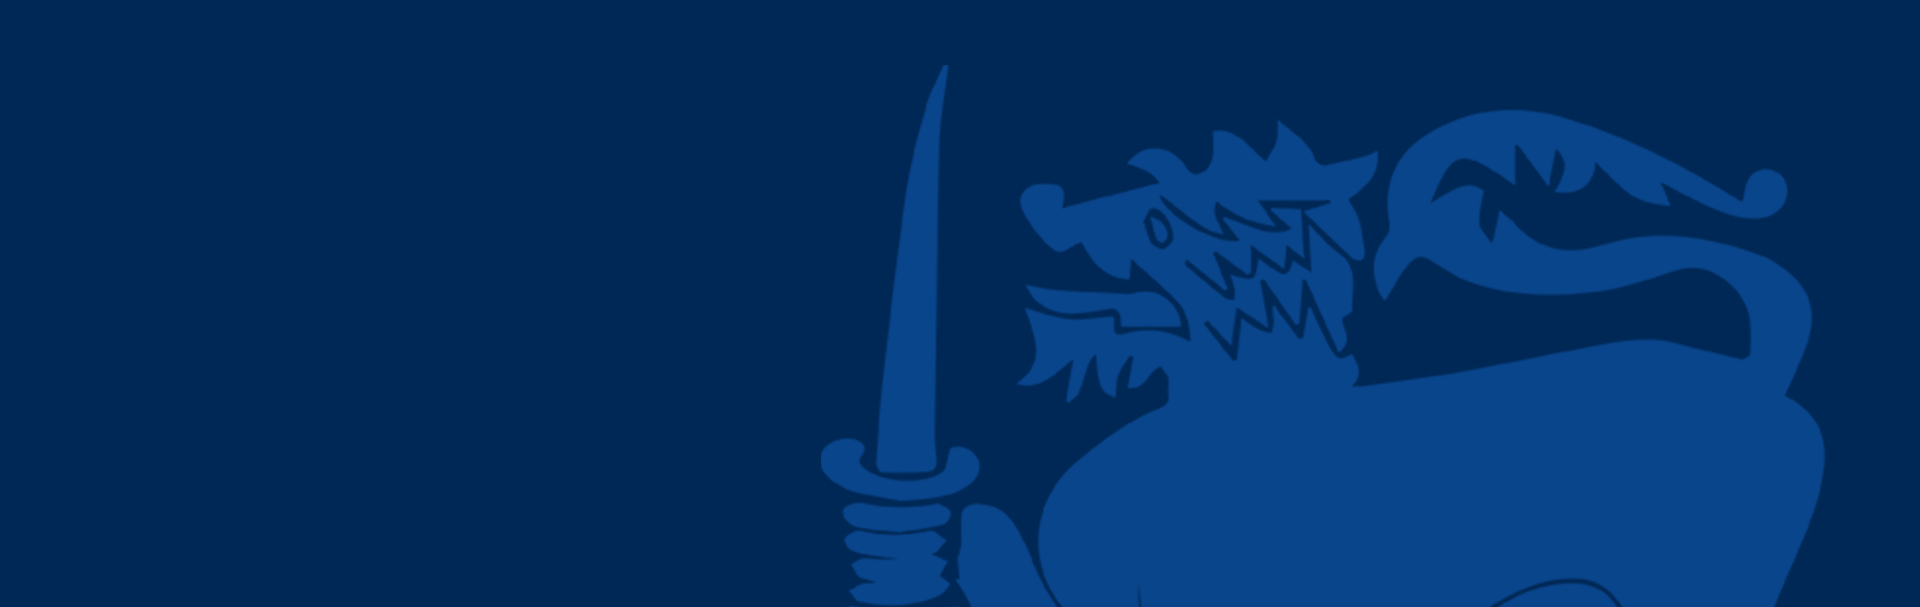
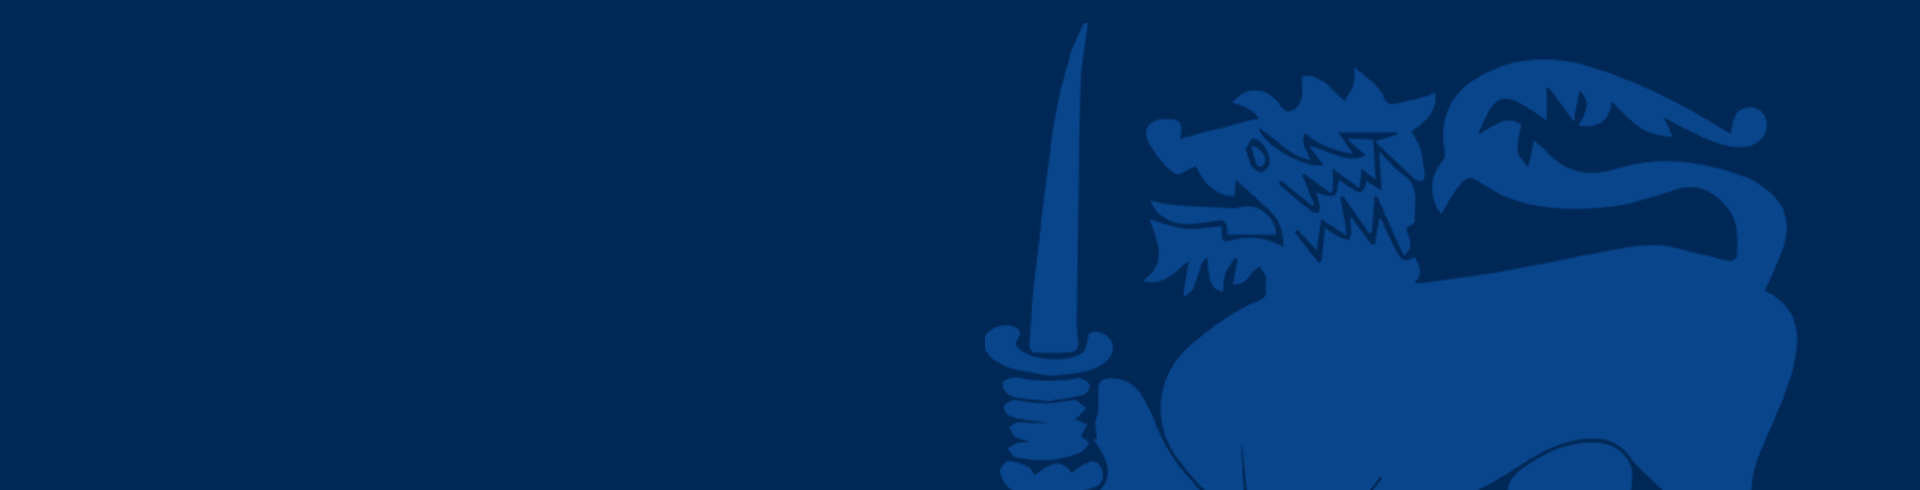
ticket and about screens

diff --git a/CSS/tickets.css b/CSS/tickets.css
@@ -1,0 +1,105 @@
+body {
+    margin: 0px !important;
+    padding: 0px !important;
+    background-image: url('/assets/tickets-backgroound-image.png');
+    background-size: contain;
+    background-repeat: no-repeat;
+    background-position: bottom;
+    padding-bottom: 100px;
+}
+
+img {
+    width: 100%;
+    /* height: 50%; */
+}
+
+.container {
+    position: relative;
+    text-align: center;
+}
+
+.top-left {
+    position: absolute;
+    top: 100px;
+    left: 120px;
+    font-size: 60px;
+    font-family: 'Poppins';
+    color: white;
+    font-weight: 700;
+}
+
+.match-card {
+    box-shadow: 0 8px 12px 0 rgba(0, 0, 0, 0.1);
+    background-color: #D6D6D6;
+    margin-top: 100px;
+    margin-left: 120px;
+    margin-right: 120px;
+    border-radius: 20px;
+    padding-bottom: 40px;
+    margin-bottom: 500px;
+}
+
+.card-topic {
+    font-size: 40px;
+    padding-top: 40px;
+    margin-left: 70px;
+    margin-bottom: 10px;
+    /* font-size: 60px;  */
+    font-family: 'Poppins';
+    font-weight: 600;
+}
+
+.card-text {
+    font-size: 30px;
+    margin-bottom: 10px;
+    margin-left: 70px;
+    /* font-size: 60px;  */
+    font-family: 'Poppins';
+    font-weight: 500;
+}
+
+.select-price {
+    padding: 10px;
+    padding-left: 20px;
+    padding-right: 20px;
+    margin-left: 70px;
+    margin-top: 10px;
+    font-family: 'Poppins';
+    font-weight: 400;
+    font-size: 25px;
+    border-width: 0px;
+}
+
+.select-qty {
+    padding: 10px;
+    padding-left: 30px;
+    padding-right: 30px;
+    margin-left: 70px;
+    margin-top: 20px;
+    font-family: 'Poppins';
+    font-weight: 400;
+    font-size: 25px;
+    border-width: 0px;
+}
+
+.buy-tickets {
+    font-family: 'Poppins';
+    font-weight: 500;
+    font-size: 25px;
+    margin-top: 20px;
+    margin-top: 30px;
+    margin-left: 70px;
+    padding: 10px;
+    padding-left: 40px;
+    padding-right: 40px;
+    border-radius: 30px;
+    border-width: 0px;
+    background-color: #4DA4E8;
+    color: white;
+    outline-width: 0px;
+    box-shadow: 0 8px 12px 0 rgba(0,0,0,0.2);
+}
+
+.buy-tickets:hover{
+    background-color: #2898EF;
+}

diff --git a/html/tickets.html b/html/tickets.html
@@ -1,0 +1,38 @@
+<!DOCTYPE html>
+<html>
+
+<head>
+    <link rel="stylesheet" href="/css/tickets.css">
+    <link
+        href='https://fonts.googleapis.com/css2?family=Poppins:ital,wght@0,100;0,200;0,400;0,500;0,600;0,700;0,800;0,900;1,100;1,200;1,400;1,500;1,600;1,700;1,800;1,900&display=swap'
+        rel='stylesheet'>
+    <title>Tickets</title>
+</head>
+
+<body>
+    <div class="container">
+        <img class="main-cover" src="/assets/cover-image.jpg" alt="cover image">
+        <div class="top-left">Tickets | LPL</div>
+    </div>
+    <div class="match-card">
+        <div class="card-topic">Colombo Kings vs Galle Gladiators</div>
+        <div class="card-text">Pallakele Cricket Stadium, Kandy</div>
+        <div class="card-text">15:30 IST (05:30 GMT) 14:00 LOCAL</div>
+        <!-- <div class="card-location">Pallakele Cricket Stadium, Kandy</div> -->
+        <select name="select-price" class="select-price">
+            <option value="value-1">Rs. 2,500</option>
+            <option value="value-2">Rs. 4,500</option>
+            <option value="value-3">Rs. 6,500</option>
+            <option value="value-4">Rs. 8,000</option>
+        </select><br/>
+        <select name="select-price" class="select-qty">
+            <option value="value-1">1</option>
+            <option value="value-2">2</option>
+            <option value="value-3">3</option>
+            <option value="value-4">4</option>
+            <option value="value-4">5</option>
+        </select><br/>
+        <button type="button" class="buy-tickets">Buy Tickets</button>
+    </div>
+
+</body>

diff --git a/html/about.html b/html/about.html
@@ -1,0 +1,23 @@
+<!DOCTYPE html>
+<html>
+
+<head>
+    <link rel="stylesheet" href="/css/about.css">
+    <link
+        href='https://fonts.googleapis.com/css2?family=Poppins:ital,wght@0,100;0,200;0,400;0,500;0,600;0,700;0,800;0,900;1,100;1,200;1,400;1,500;1,600;1,700;1,800;1,900&display=swap'
+        rel='stylesheet'>
+    <title>About Us | LPL</title>
+</head>
+
+<body>
+    <div class="container">
+        <img class="main-cover" src="/assets/cover-image.jpg" alt="cover image">
+        <div class="top-left">About</div>
+    </div>
+    <div class="match-card">
+        <div class="LPL-logo-div">
+            <img class="LPL-logo" src="/assets/LPL-Logo-Transparent.png" alt="cover image"></div>
+        <div class="card-topic">Lanka Premier League (LPL)</div>
+        <p class="card-text">The Lanka Premier League (LPL) (Sinhala: ලංකා ප්රිමියර් ලීග්) is a professional Twenty20 cricket league in Sri Lanka to be contested every year by teams representing Sri Lankan cities from 2020. The league was founded by Sri Lanka Cricket (SLC) in 2018.<br/><br/>Originally, the first season was supposed to be held from 18 August to 10 September 2018, but postponed multiple times due to administrative issues within SLC. In June 2020, amidst the COVID-19 pandemic, SLC announced the tournament would start on 28 August 2020, with 70 overseas players showing interest in playing in the league. However, it was announced that the tournament will be started on 21st of November 2020.</p>
+    </div>
+</body>

diff --git a/CSS/about.css b/CSS/about.css
@@ -1,0 +1,67 @@
+body {
+    margin: 0px !important;
+    padding: 0px !important;
+    background-image: url('/assets/about-backgroound-image.png');
+    background-size: contain;
+    background-repeat: no-repeat;
+    background-position: bottom;
+    padding-bottom: 100px;
+}
+
+img {
+    width: 100%;
+    /* height: 50%; */
+}
+
+.container {
+    position: relative;
+    text-align: center;
+}
+
+.top-left {
+    position: absolute;
+    top: 100px;
+    left: 120px;
+    font-size: 60px;
+    font-family: 'Poppins';
+    color: white;
+    font-weight: 700;
+}
+
+.match-card {
+    box-shadow: 0 8px 12px 0 rgba(0, 0, 0, 0.1);
+    background-color: #D6D6D6;
+    margin-top: 100px;
+    margin-left: 120px;
+    margin-right: 120px;
+    border-radius: 20px;
+    padding-bottom: 40px;
+    margin-bottom: 250px;
+}
+
+.card-topic {
+    font-size: 40px;
+    padding-top: 40px;
+    margin-left: 70px;
+    margin-bottom: 10px;
+    /* font-size: 60px;  */
+    font-family: 'Poppins';
+    font-weight: 600;
+}
+
+.card-text {
+    font-size: 25px;
+    margin-bottom: 10px;
+    margin-left: 70px;
+    /* font-size: 60px;  */
+    font-family: 'Poppins';
+    font-weight: 500;
+}
+
+.LPL-logo-div{
+    text-align: center;
+}
+.LPL-logo{
+    margin-top: 30px;
+    width: 40%;
+}

diff --git a/html/videos.html b/html/videos.html
@@ -12,7 +12,7 @@
 <body>
     <div class="container">
         <img class="main-cover" src="/assets/cover-image.jpg" alt="cover image">
-        <div class="top-left">Videos</div>
+        <div class="top-left">Videos | LPL</div>
     </div>
     <div class="match-card">
         <div class="card-topic">Julian Arundel score a century</div>

diff --git a/html/matches.html b/html/matches.html
@@ -12,7 +12,7 @@
 <body>
     <div class="container">
         <img class="main-cover" src="/assets/cover-image.jpg" alt="cover image">
-        <div class="top-left">Matches</div>
+        <div class="top-left">Matches | LPL</div>
     </div>
     <div class="date">26th October 2020</div>
     <div class="match-card">
